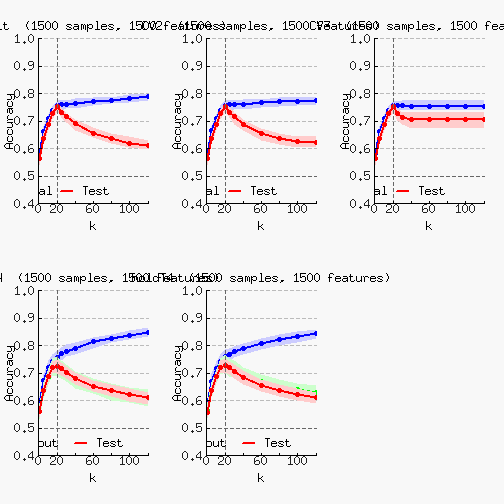
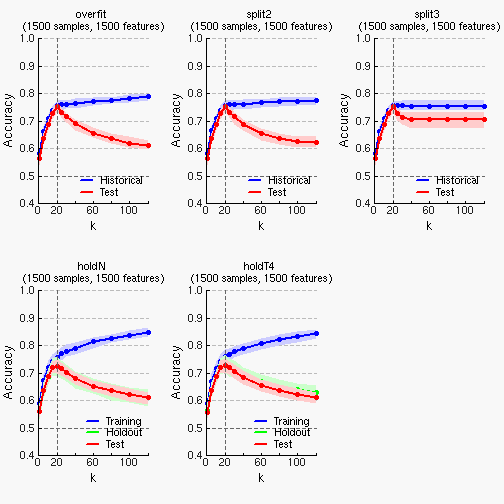
replaced "CV" notation to "split"

diff --git a/inst/Rthresholdout-vignette.html b/inst/Rthresholdout-vignette.html
@@ -222,9 +222,9 @@ numsignals = 20
 threshold.factor = 4;
 </code></pre>
 
-<p>For this vignette, the threshold.factor will be important - it determines the conditions when an evaluation function will use a holdout and when a background dataset. The other tolerance factor will determine the noise level of the output - in this vignette this will not play a critical role as we will average results over multiple repetitions and the effect of this noise will largely cancel out.</p>
+<p>For this vignette, the threshold.factor will be important - it determines the conditions when an evaluation function will use a holdout and when a background dataset. The other tolerance factor will determine the noise level of the output.</p>
 
-<p>Finally, we will repeat the simulations for a number of replicates and work with a range of models</p>
+<p>Finally, we will repeat the simulations for a number of replicates and work with a range of models (100 repeats is thorough, but try a smaller number for quicker results)</p>
 
 <pre><code class="r">reps = 100;
 krange = c(1, seq(5, 30, by=5), seq(40, 120, by=20))
@@ -236,7 +236,7 @@ krange = c(1, seq(5, 30, by=5), seq(40, 120, by=20))
 
 <p>The following object will be used within a loop to describe how the training data should be used</p>
 
-<pre><code class="r">trymethods = c(&quot;overfit&quot;, &quot;CV2&quot;, &quot;CV3&quot;, &quot;holdN&quot;, &quot;holdT4&quot;)
+<pre><code class="r">trymethods = c(&quot;overfit&quot;, &quot;split2&quot;, &quot;split3&quot;, &quot;holdN&quot;, &quot;holdT4&quot;)
 </code></pre>
 
 <p>When working with historical data split into two parts, it will be helpful to have vectors containing the sample ids for each part.</p>
@@ -267,8 +267,9 @@ install_github(&quot;tkonopka/Rthresholdout&quot;)
 
 <pre><code>## Downloading github repo tkonopka/Rthresholdout@master
 ## Installing Rthresholdout
-## &#39;/software/opt/R/R-3.1.2/lib/R/bin/R&#39; --vanilla CMD INSTALL  \
-##   &#39;/tmp/Rtmp08Iivj/devtoolsbb65a72b168/tkonopka-Rthresholdout-0b89687&#39;  \
+## &#39;/software/opt/R/R-3.1.2/lib/R/bin/R&#39; --no-site-file --no-environ  \
+##   --no-save --no-restore CMD INSTALL  \
+##   &#39;/tmp/RtmpoUaXd8/devtools1b5a70be84c9/tkonopka-Rthresholdout-0a3a736&#39;  \
 ##   --library=&#39;/software/opt/R/R-3.1.2/lib/R/library&#39; --install-tests 
 ## 
 ## Reloading installed Rthresholdout
@@ -305,6 +306,9 @@ library(&quot;Rcssplot&quot;)
 }
 </code></pre>
 
+<pre><code>## creating results.raw object
+</code></pre>
+
 <p>In this part, the matrices are filled in. This part may take some time&hellip;</p>
 
 <pre><code class="r">if (!results.raw$done) {
@@ -318,12 +322,12 @@ library(&quot;Rcssplot&quot;)
 
       if (method==&quot;overfit&quot;) {
         set.cors = getFeatureCorrelations(ds$train, ds$train.signal)        
-      } else if (method==&quot;CV2&quot;) {
+      } else if (method==&quot;split2&quot;) {
         set.cors = cbind(
           getFeatureCorrelations(ds$train[,S1], ds$train.signal[S1]),
           getFeatureCorrelations(ds$train[,S2], ds$train.signal[S2])
           );                    
-      } else if (method==&quot;CV3&quot;) {
+      } else if (method==&quot;split3&quot;) {
         set.cors = cbind(
           getFeatureCorrelations(ds$train[,Sa], ds$train.signal[Sa]),
           getFeatureCorrelations(ds$train[,Sb], ds$train.signal[Sb]),
@@ -367,9 +371,9 @@ library(&quot;Rcssplot&quot;)
   results.raw$done=TRUE;
   cat(&quot;\n&quot;)  
 }
+</code></pre>
 
-if (!exists(&quot;results&quot;)) {
-  cat(&quot;creating results object\n&quot;);
+<pre><code class="r">if (!exists(&quot;results&quot;)) {
   results = list()
   for (method in trymethods) {
     temp = matrix(0, ncol=1+(length(restypes)*3), nrow=length(krange));
@@ -391,19 +395,13 @@ if (!exists(&quot;results&quot;)) {
 
 <pre><code class="r">source(&quot;Rthresholdout-plot.R&quot;)
 mystyle = Rcss(&quot;Rthresholdout.Rcss&quot;)
-</code></pre>
-
-<pre><code>## Warning in readLines(fcon): incomplete final line found on
-## &#39;Rthresholdout.Rcss&#39;
-</code></pre>
-
-<pre><code class="r">RcssSetDefaultStyle(mystyle)
+RcssSetDefaultStyle(mystyle)
 
 plotcolors = c(&quot;#0000ff&quot;,&quot;#00ff00&quot;,&quot;#ff0000&quot;)
 plotcolors.bg = c(&quot;#ccccff&quot;,&quot;#ccffcc&quot;,&quot;#ffcccc&quot;)
 
-topdf = FALSE
-if (topdf) {
+topdf = &quot;nopdf&quot;
+if (topdf==&quot;pdf&quot;) {
   plotcolors.bg = paste0(plotcolors,&quot;28&quot;)   
   filename = paste0(&quot;Rthresholdout-&quot;,
                   numsamples,&quot;-&quot;,numfeatures,&quot;-&quot;,numsignals,&quot;.pdf&quot;)
@@ -415,21 +413,21 @@ if (topdf) {
 for (nowmethod in trymethods) {
   nowmain = paste0(nowmethod, &quot;  (&quot;,
                   numsamples,&quot; samples, &quot;,numfeatures,&quot; features)&quot;)
-  if (nowmethod==&quot;overfit&quot; | nowmethod==&quot;CV2&quot; | nowmethod==&quot;CV3&quot;) {
+  if (nowmethod==&quot;overfit&quot; | nowmethod==&quot;split2&quot; | nowmethod==&quot;split3&quot;) {
     plotHresults(results[[nowmethod]], types=c(&quot;train&quot;,&quot;test&quot;), 
         col=plotcolors[c(1,3)], bgcol=plotcolors.bg[c(1,3)],
-        main=nowmain)
+        main=nowmain, Rcssclass=topdf)
   } else {          
     plotHresults(results[[nowmethod]], main=nowmain,
-        col=plotcolors, bgcol=plotcolors.bg)
+        col=plotcolors, bgcol=plotcolors.bg, Rcssclass=topdf)
   }
 }
-if (topdf) {
+if (topdf==&quot;pdf&quot;) {
   dev.off()
 }
 </code></pre>
 
[2 lines of base64/hex data omitted]
 
 <p>That&#39;s all. </p>
 

diff --git a/inst/Rthresholdout-vignette.md b/inst/Rthresholdout-vignette.md
@@ -1,7 +1,7 @@
 ---
 title: "Rthresholdout vignette"
 author: "Tomasz Konopka"
-date: "2015-09-11"
+date: "2015-09-16"
 output: rmarkdown::html_vignette
 vignette: >
   %\VignetteIndexEntry{Vignette Title}
@@ -37,9 +37,10 @@ tolerance.factor = 1;
 threshold.factor = 4;
 ```
 
-For this vignette, the threshold.factor will be important - it determines the conditions when an evaluation function will use a holdout and when a background dataset. The other tolerance factor will determine the noise level of the output - in this vignette this will not play a critical role as we will average results over multiple repetitions and the effect of this noise will largely cancel out.
+For this vignette, the threshold.factor will be important - it determines the conditions when an evaluation function will use a holdout and when a background dataset. The other tolerance factor will determine the noise level of the output.
 
-Finally, we will repeat the simulations for a number of replicates and work with a range of models
+Finally, we will repeat the simulations for a number of replicates and work with a range of models (100 repeats is thorough, but try a smaller number for quicker results)
+
 
 
 ```r
@@ -57,7 +58,7 @@ The following object will be used within a loop to describe how the training dat
 
 
 ```r
-trymethods = c("overfit", "CV2", "CV3", "holdN", "holdT4")
+trymethods = c("overfit", "split2", "split3", "holdN", "holdT4")
 ```
 
 When working with historical data split into two parts, it will be helpful to have vectors containing the sample ids for each part.
@@ -93,8 +94,9 @@ install_github("tkonopka/Rthresholdout")
 ```
 ## Downloading github repo tkonopka/Rthresholdout@master
 ## Installing Rthresholdout
-## '/software/opt/R/R-3.1.2/lib/R/bin/R' --vanilla CMD INSTALL  \
-##   '/tmp/Rtmp08Iivj/devtoolsbb65a72b168/tkonopka-Rthresholdout-0b89687'  \
+## '/software/opt/R/R-3.1.2/lib/R/bin/R' --no-site-file --no-environ  \
+##   --no-save --no-restore CMD INSTALL  \
+##   '/tmp/RtmpoUaXd8/devtools1b5a70be84c9/tkonopka-Rthresholdout-0a3a736'  \
 ##   --library='/software/opt/R/R-3.1.2/lib/R/library' --install-tests 
 ## 
 ## Reloading installed Rthresholdout
@@ -137,6 +139,10 @@ if (!exists("results.raw")) {
 }
 ```
 
+```
+## creating results.raw object
+```
+
 
 In this part, the matrices are filled in. This part may take some time...
 
@@ -153,12 +159,12 @@ if (!results.raw$done) {
       
       if (method=="overfit") {
         set.cors = getFeatureCorrelations(ds$train, ds$train.signal)        
-      } else if (method=="CV2") {
+      } else if (method=="split2") {
         set.cors = cbind(
           getFeatureCorrelations(ds$train[,S1], ds$train.signal[S1]),
           getFeatureCorrelations(ds$train[,S2], ds$train.signal[S2])
           );					
-      } else if (method=="CV3") {
+      } else if (method=="split3") {
         set.cors = cbind(
           getFeatureCorrelations(ds$train[,Sa], ds$train.signal[Sa]),
           getFeatureCorrelations(ds$train[,Sb], ds$train.signal[Sb]),
@@ -202,9 +208,10 @@ if (!results.raw$done) {
   results.raw$done=TRUE;
   cat("\n")  
 }
+```
 
+```r
 if (!exists("results")) {
-  cat("creating results object\n");
   results = list()
   for (method in trymethods) {
     temp = matrix(0, ncol=1+(length(restypes)*3), nrow=length(krange));
@@ -228,21 +235,13 @@ After all the calculation is complete, we can plot performance of each strategy.
 ```r
 source("Rthresholdout-plot.R")
 mystyle = Rcss("Rthresholdout.Rcss")
-```
-
-```
-## Warning in readLines(fcon): incomplete final line found on
-## 'Rthresholdout.Rcss'
-```
-
-```r
 RcssSetDefaultStyle(mystyle)
 
 plotcolors = c("#0000ff","#00ff00","#ff0000")
 plotcolors.bg = c("#ccccff","#ccffcc","#ffcccc")
 
-topdf = FALSE
-if (topdf) {
+topdf = "nopdf"
+if (topdf=="pdf") {
   plotcolors.bg = paste0(plotcolors,"28")	
   filename = paste0("Rthresholdout-",
                   numsamples,"-",numfeatures,"-",numsignals,".pdf")
@@ -254,16 +253,16 @@ if (topdf) {
 for (nowmethod in trymethods) {
   nowmain = paste0(nowmethod, "  (",
                   numsamples," samples, ",numfeatures," features)")
-  if (nowmethod=="overfit" | nowmethod=="CV2" | nowmethod=="CV3") {
+  if (nowmethod=="overfit" | nowmethod=="split2" | nowmethod=="split3") {
     plotHresults(results[[nowmethod]], types=c("train","test"), 
         col=plotcolors[c(1,3)], bgcol=plotcolors.bg[c(1,3)],
-        main=nowmain)
+        main=nowmain, Rcssclass=topdf)
   } else {		    
     plotHresults(results[[nowmethod]], main=nowmain,
-        col=plotcolors, bgcol=plotcolors.bg)
+        col=plotcolors, bgcol=plotcolors.bg, Rcssclass=topdf)
   }
 }
-if (topdf) {
+if (topdf=="pdf") {
   dev.off()
 }
 ```
